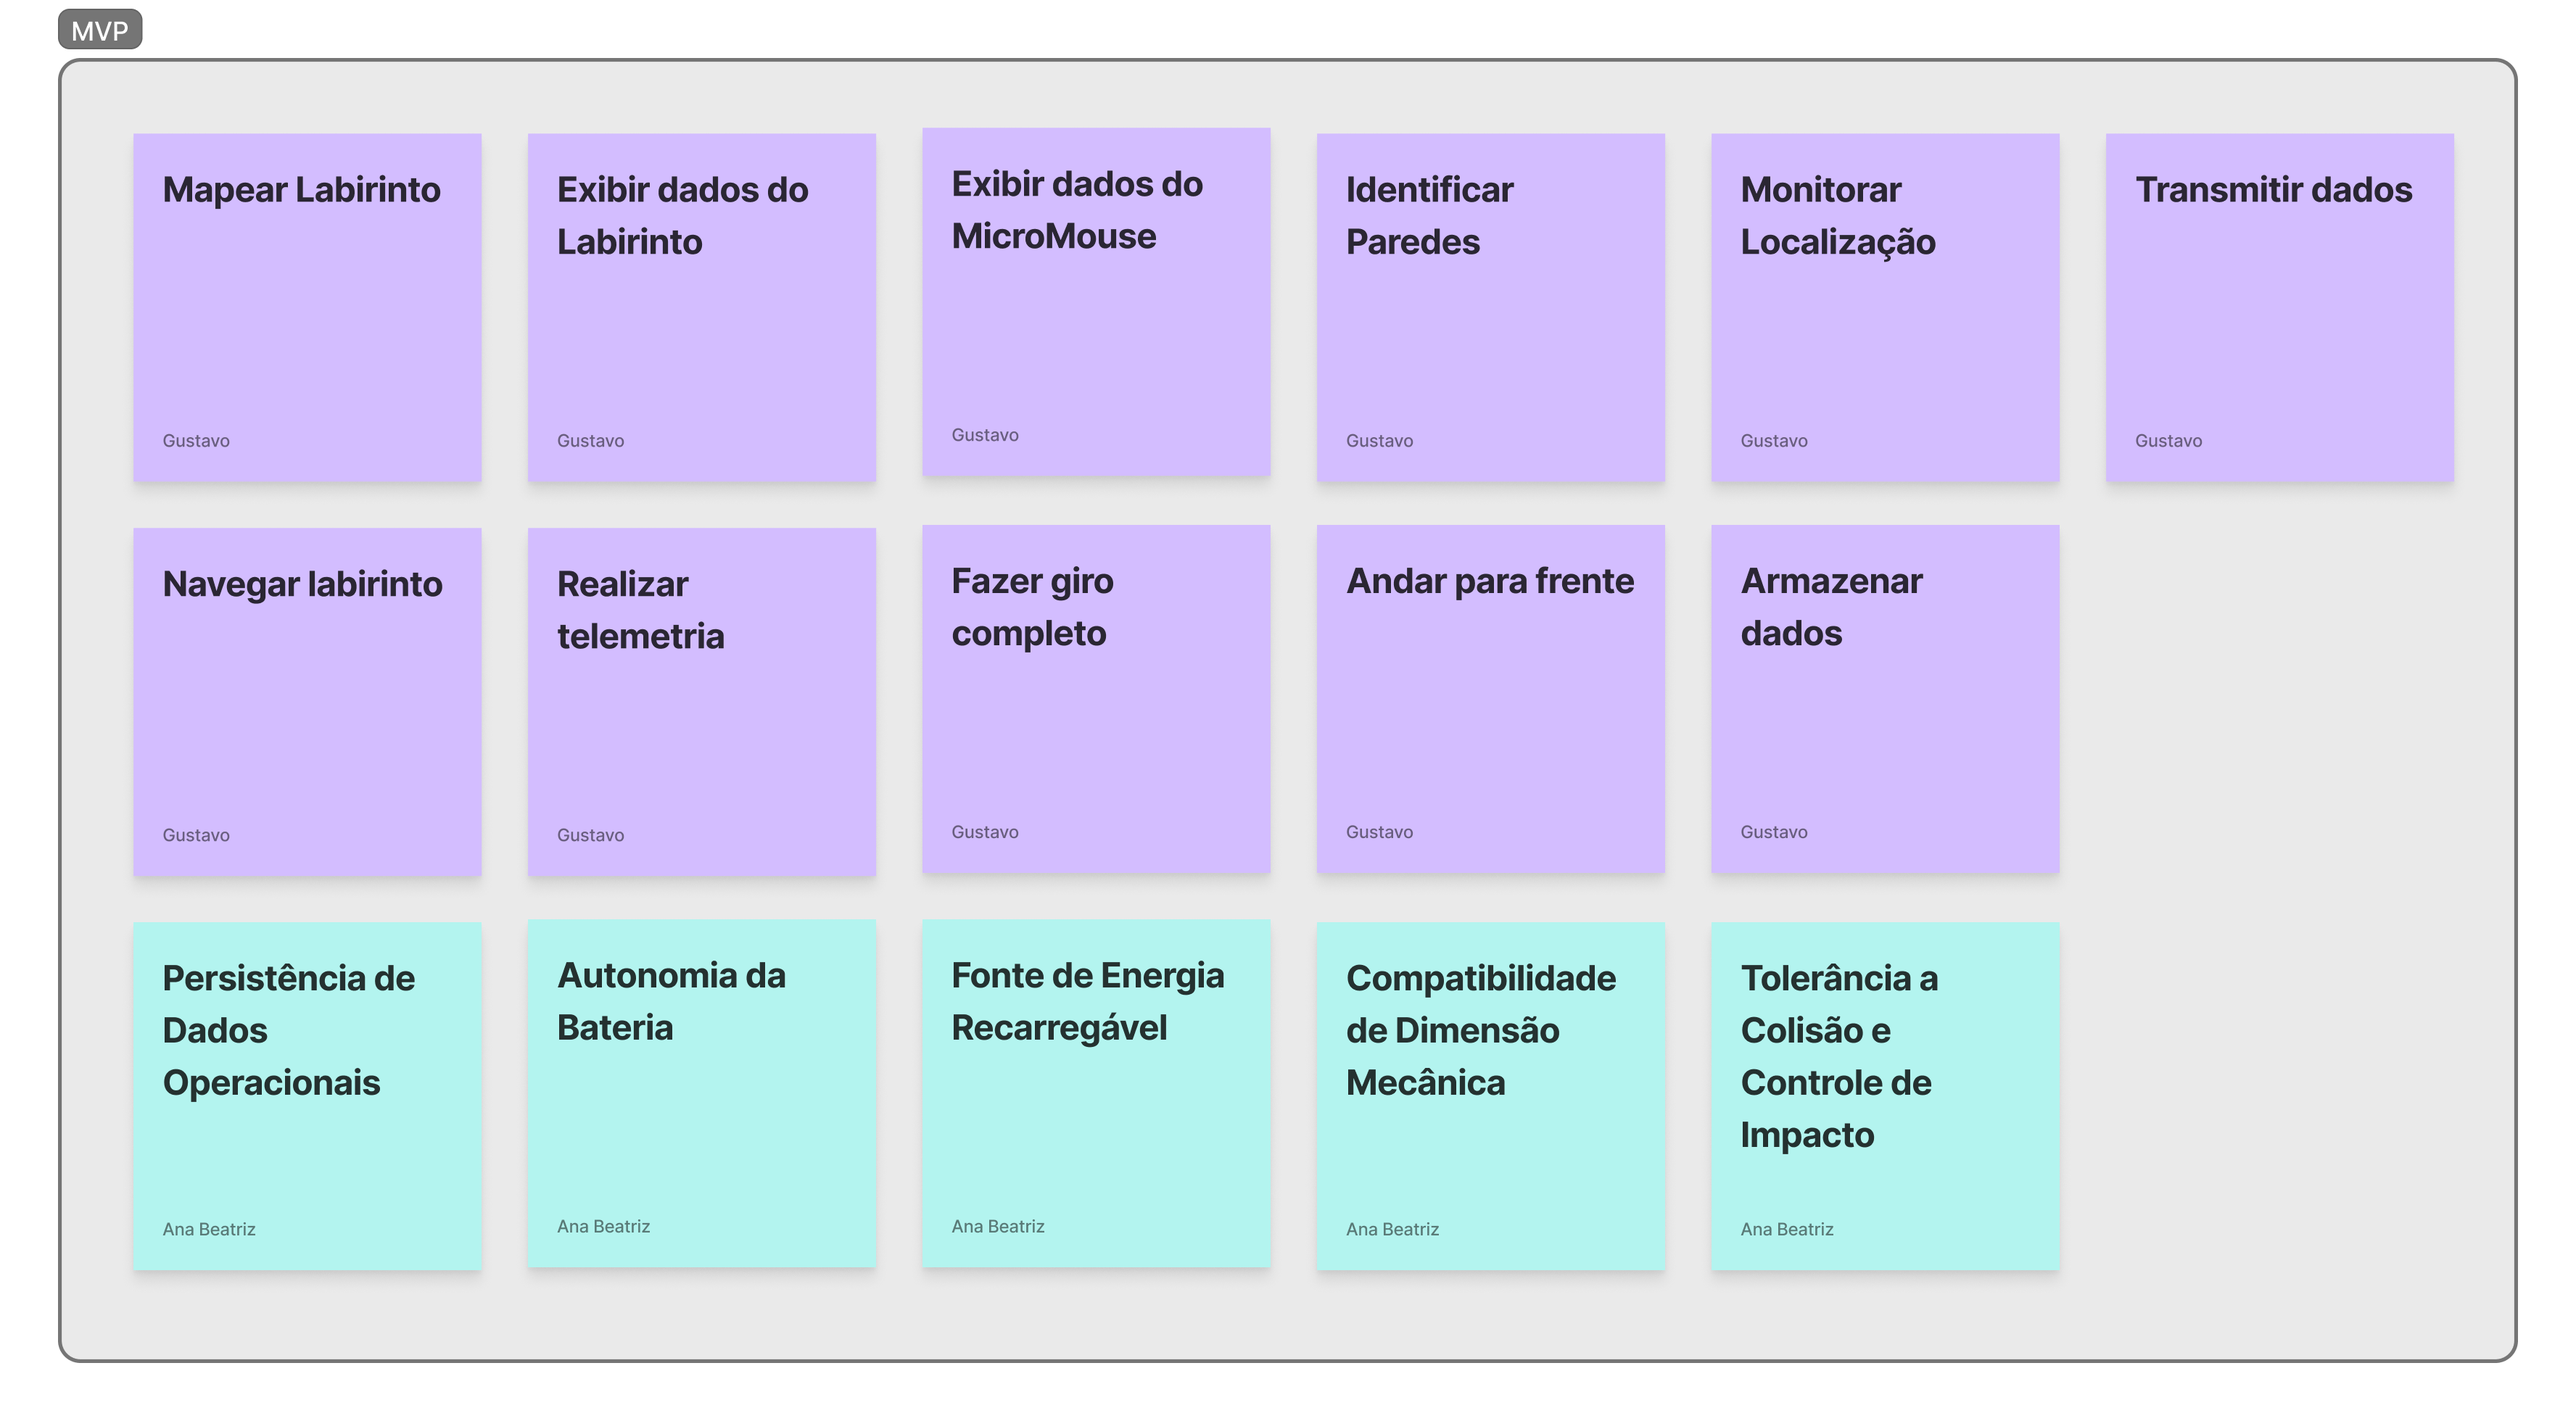
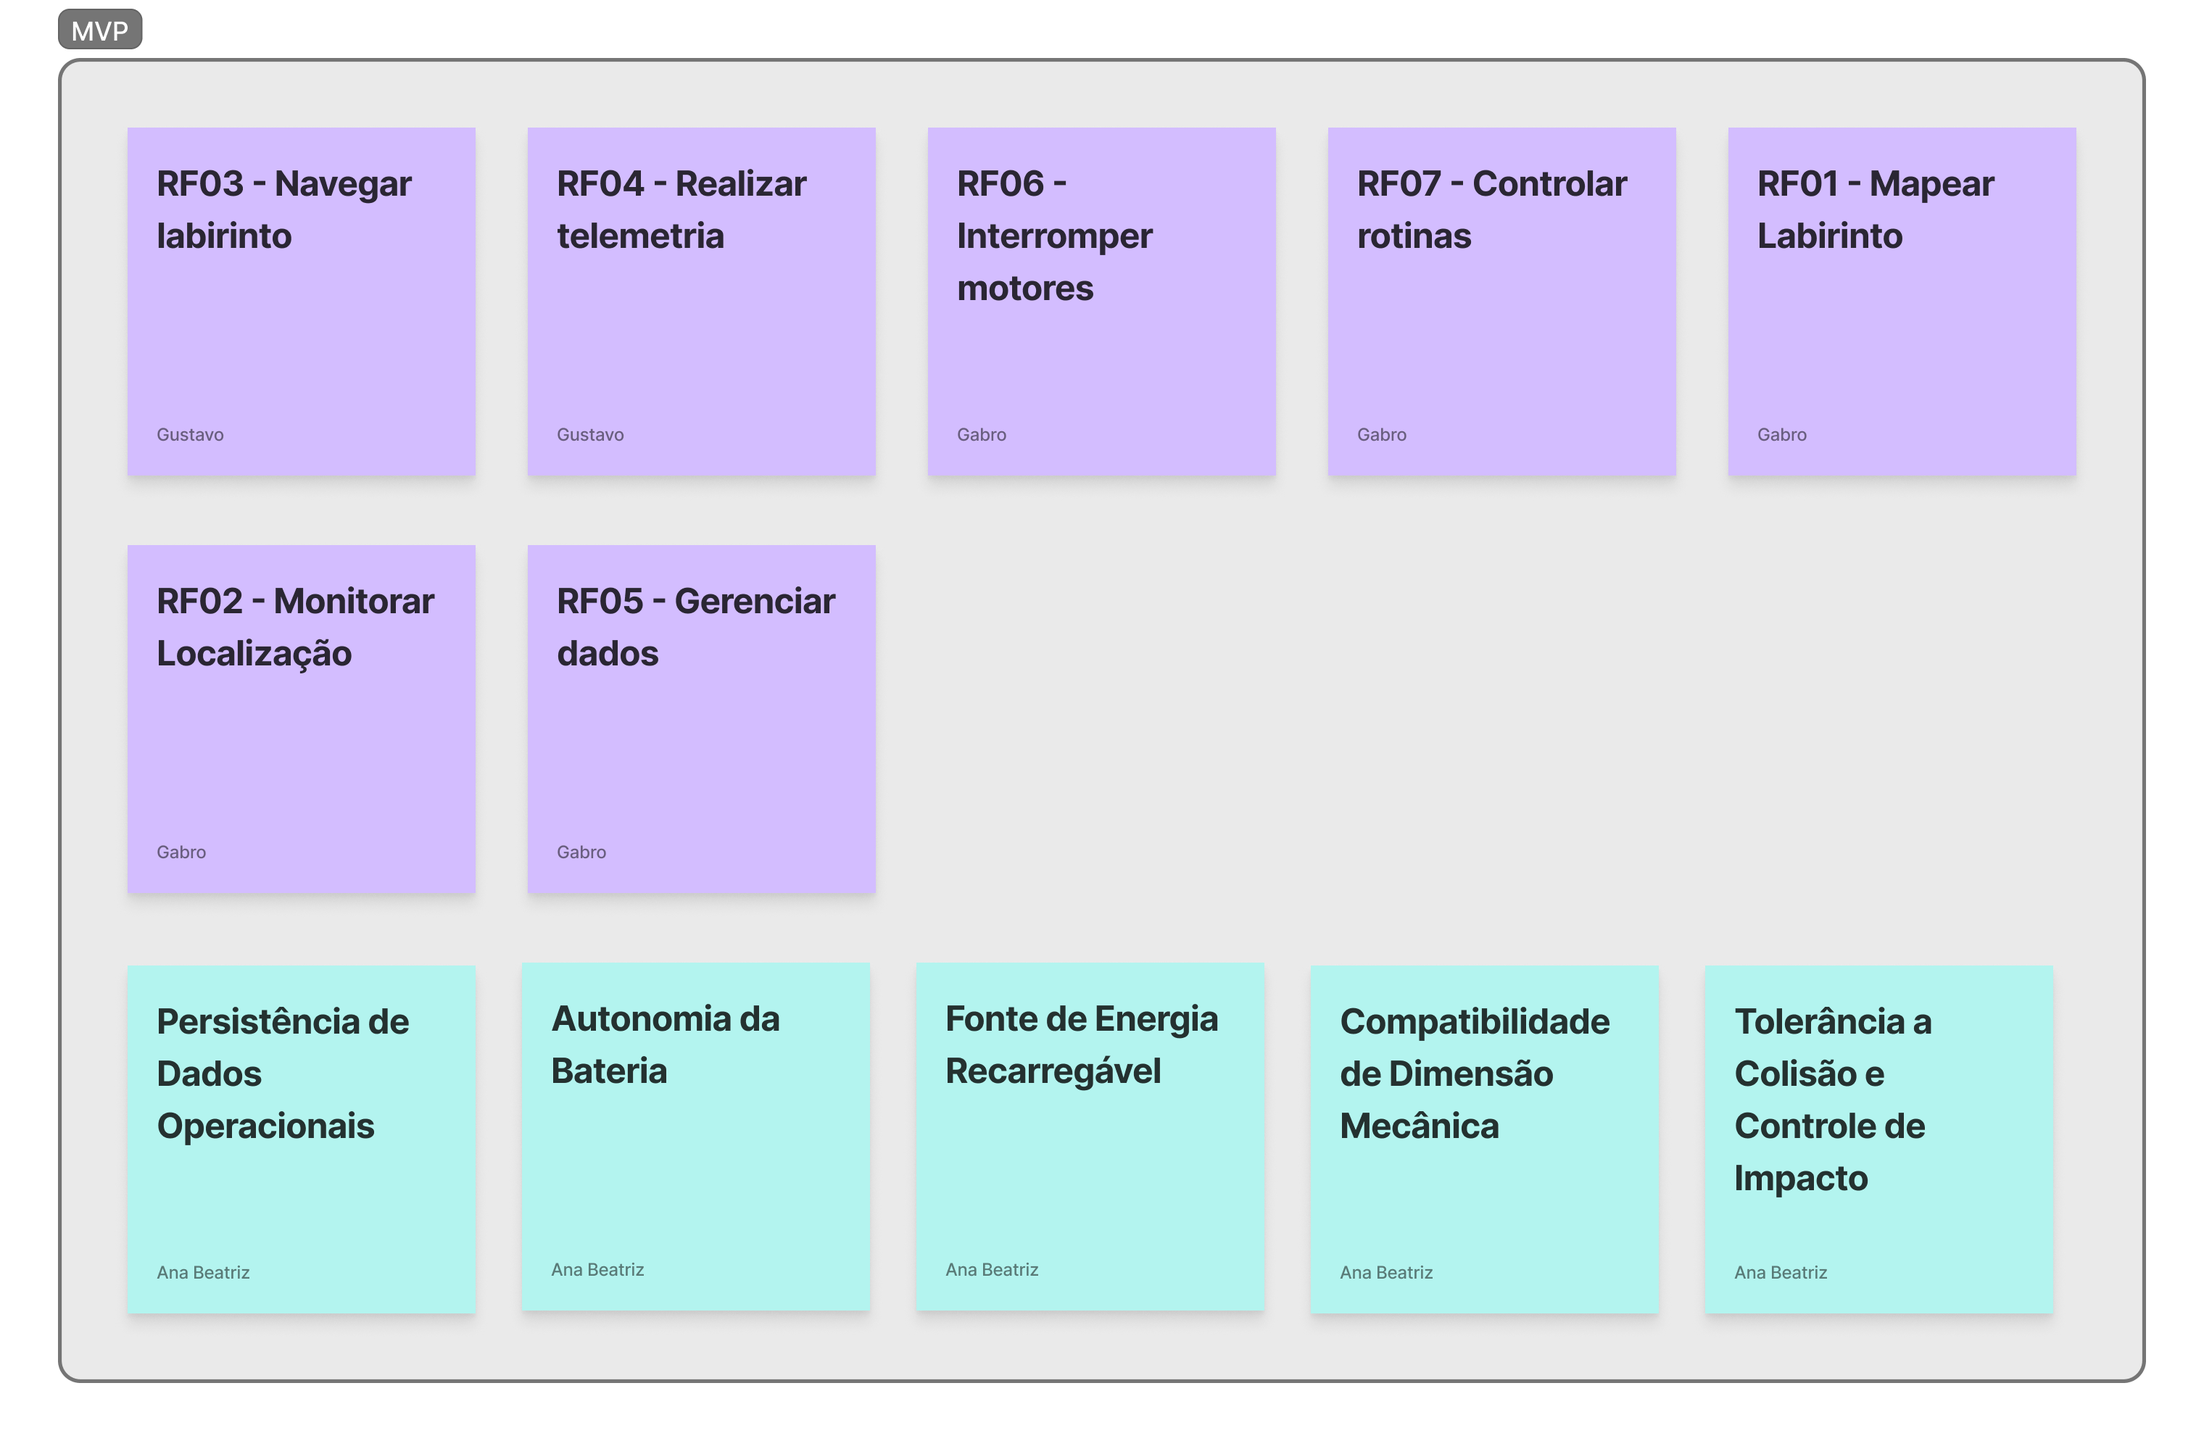
docs(Requisitos): atualização da matriz de rastreabilidade e MVP

diff --git a/docs/2 - Requisitos/MVP.md b/docs/2 - Requisitos/MVP.md
@@ -6,7 +6,7 @@ Este documento descreve a conceituação, os critérios de inclusão e o conjunt
 
 ## O que é o MVP?
 
-O **MVP** é a versão básica de um produto que reúne o conjunto fundamental de funcionalidades necessárias para validar sua proposta de valor principal. No contexto da engenharia e da robótica do **MicroMouse**, o MVP representa o protótipo funcional capaz de percorrer e resolver o labirinto de forma autônoma, garantindo a coleta de dados e operando sob as restrições essenciais de *hardware* e segurança.
+O **MVP** é a versão básica de um produto que reúne o conjunto fundamental de funcionalidades necessárias para validar sua proposta de valor principal. No contexto da engenharia e da robótica do **MicroMouse**, o MVP representa o protótipo funcional capaz de percorrer e resolver o labirinto de forma autônoma, garantindo a coleta de dados e operando sob as restrições essenciais de _hardware_ e segurança.
 
 O objetivo do MVP não é entregar a solução final com todas as otimizações possíveis, mas sim garantir uma base estável, testável e operacional para validações em cenários reais.
 
@@ -16,8 +16,8 @@ O objetivo do MVP não é entregar a solução final com todas as otimizações 
 
 A seleção dos requisitos integrantes do MVP baseou-se rigorosamente na metodologia de priorização **MoSCoW**:
 
-* **Critério de Entrada:** Apenas os requisitos categorizados como **Must Have** integram o escopo do MVP.
-* **Justificativa:** Os itens *Must Have* representam capacidades indispensáveis sem as quais a missão do robô torna-se inviável. Requisitos classificados como *Should Have*, *Could Have* ou *Won't Have* foram postergados para iterações posteriores.
+- **Critério de Entrada:** Apenas os requisitos categorizados como **Must Have** integram o escopo do MVP.
+- **Justificativa:** Os itens _Must Have_ representam capacidades indispensáveis sem as quais a missão do robô torna-se inviável. Requisitos classificados como _Should Have_, _Could Have_ ou _Won't Have_ foram postergados para iterações posteriores.
 
 ---
 
@@ -25,19 +25,15 @@ A seleção dos requisitos integrantes do MVP baseou-se rigorosamente na metodol
 
 A tabela a seguir apresenta os Requisitos Funcionais essenciais selecionados para o MVP. O ID de cada requisito fornece um link direto para o arquivo de origem.
 
-| **ID** | **Nome do Requisito** | **Descrição** |
-|:------:|------------------------|---------------|
-| [RF01](RF.md#rf-declarados) | Mapear Labirinto | Realizar o mapeamento contínuo da estrutura do labirinto à medida que o robô se desloca. |
-| [RF02](RF.md#rf-declarados) | Exibir dados do Labirinto | Apresentar em interface os dados estruturais e o mapa gerado do labirinto. |
-| [RF03](RF.md#rf-declarados) | Exibir dados do MicroMouse | Exibir em tempo real as informações de status, parâmetros e estado do robô MicroMouse. |
-| [RF04](RF.md#rf-declarados) | Identificar Paredes | Detectar a presença e a proximidade de paredes adjacentes ao robô. |
-| [RF05](RF.md#rf-declarados) | Monitorar Localização | Acompanhar e atualizar a posição exata do robô dentro da grade do labirinto. |
-| [RF06](RF.md#rf-declarados) | Transmitir dados | Enviar os dados coletados pelos sensores e sistema de bordo para a central de controle. |
-| [RF07](RF.md#rf-declarados) | Fazer giro completo | Executar a rotação controlada de retorno (giro completo/180°) no próprio eixo. |
-| [RF08](RF.md#rf-declarados) | Andar para frente | Executar o deslocamento linear para a frente ao longo das células do labirinto. |
-| [RF09](RF.md#rf-declarados) | Armazenar dados | Registrar e salvar localmente as informações operacionais coletadas durante a navegação. |
-| [RF10](RF.md#rf-declarados) | Navegar labirinto | Executar os algoritmos de busca e tomada de decisão para percorrer autonomamente o labirinto. |
-| [RF11](RF.md#rf-declarados) | Realizar telemetria | Coletar e transmitir métricas de operação do sistema para acompanhamento contínuo. |
+|           **ID**            | **Nome do Requisito** | **Descrição**                                                                                                      |
+| :-------------------------: | --------------------- | ------------------------------------------------------------------------------------------------------------------ |
+| [RF01](RF.md#rf-declarados) | Mapear Labirinto      | Realizar o mapeamento contínuo da estrutura do labirinto à medida que o robô se desloca.                           |
+| [RF02](RF.md#rf-declarados) | Monitorar Localização | Acompanhar e atualizar a posição exata do robô dentro da grade do labirinto.                                       |
+| [RF03](RF.md#rf-declarados) | Navegar labirinto     | Executar algoritmos de busca e tomada de decisão, e movimentação do robo para percorrer autonomamente o labirinto. |
+| [RF04](RF.md#rf-declarados) | Realizar telemetria   | Coletar e transmitir métricas de operação do sistema para acompanhamento contínuo.                                 |
+| [RF05](RF.md#rf-declarados) | Gerenciar dados       | Permitir a trasmissão, armazenamento e exibição dos dados/logs do MicroMouse e do Labirinto                        |
+| [RF06](RF.md#rf-declarados) | Interromper motores   | Cessar imediatamente a alimentação dos motores em caso de conclusão, parada ou falha.                              |
+| [RF07](RF.md#rf-declarados) | Controlar rotinas     | Permitir a inicialização/Desligamento da rotina de controle e calibração de sensores                               |
 
 ---
 
@@ -45,11 +41,11 @@ A tabela a seguir apresenta os Requisitos Funcionais essenciais selecionados par
 
 A tabela abaixo compõe as restrições técnicas, parâmetros elétricos e de desempenho que o MVP deve atender obrigatoriamente.
 
-| **ID** | **Nome do Requisito Não Funcional** | **Descrição** |
-|:------:|--------------------------------------|---------------|
-| [RNF01](RNF.md#rnf-declarados) | Persistência de Dados Operacionais | Armazenar os dados da execução de forma persistente para consultas posteriores. |
-| [RNF02](RNF.md#rnf-declarados) | Autonomia da Bateria | Garantir que a bateria tenha capacidade suficiente para realizar 3 trajetos ou 30 minutos de operação contínua. |
-| [RNF03](RNF.md#rnf-declarados) | Fonte de Energia Recarregável | Possuir bateria recarregável. |
-| [RNF04](RNF.md#rnf-declarados) | Compatibilidade de Dimensão Mecânica | Operar o robô em corredores formados por células de 18 cm². |
+|             **ID**             | **Nome do Requisito Não Funcional**     | **Descrição**                                                                                                                                                                                       |
+| :----------------------------: | --------------------------------------- | --------------------------------------------------------------------------------------------------------------------------------------------------------------------------------------------------- |
+| [RNF01](RNF.md#rnf-declarados) | Persistência de Dados Operacionais      | Armazenar os dados da execução de forma persistente para consultas posteriores.                                                                                                                     |
+| [RNF02](RNF.md#rnf-declarados) | Autonomia da Bateria                    | Garantir que a bateria tenha capacidade suficiente para realizar 3 trajetos ou 30 minutos de operação contínua.                                                                                     |
+| [RNF03](RNF.md#rnf-declarados) | Fonte de Energia Recarregável           | Possuir bateria recarregável.                                                                                                                                                                       |
+| [RNF04](RNF.md#rnf-declarados) | Compatibilidade de Dimensão Mecânica    | Operar o robô em corredores formados por células de 18 cm².                                                                                                                                         |
 | [RNF05](RNF.md#rnf-declarados) | Tolerância a Colisão e Controle Impacto | Garantir por meio do sistema de controle de motores que a velocidade e a frenagem impeçam o robô de colidir com as paredes com força suficiente para causar danos físicos à estrutura do labirinto. |
-| [RNF06](RNF.md#rnf-declarados) | Integridade Estrutural | Assegurar que o robô se mantenha intacto no final do trajeto. |
+| [RNF06](RNF.md#rnf-declarados) | Integridade Estrutural                  | Assegurar que o robô se mantenha intacto no final do trajeto.                                                                                                                                       |

diff --git a/docs/2 - Requisitos/Matriz de Rastreabilidade.md b/docs/2 - Requisitos/Matriz de Rastreabilidade.md
@@ -12,11 +12,11 @@ Aqui está a coleção de fotos detalhadas da matriz de rastreabilidade que fize
 
 ### Requisitos Funcionais
 
-![Requisitos Funcionais](../figs/Requisitos/Requisitos%20Funcionais.png)
+![Requisitos Funcionais](../figs/Requisitos/RFs.png)
 
 ### Requisitos Não Funcionais
 
-![Requisitos Funcionais](../figs/Requisitos/Requisito%20Não%20Funcional.png)
+![Requisitos Funcionais](../figs/Requisitos/RNFs.png)
 
 ### MoSCoW
 
@@ -24,19 +24,19 @@ Aqui está a coleção de fotos detalhadas da matriz de rastreabilidade que fize
 
 ### Must Have
 
-![Requisitos Funcionais](../figs/Requisitos/Must%20have.png)
+![Requisitos Funcionais](../figs/Requisitos/Must.png)
 
 ### Should Have
 
-![Requisitos Funcionais](../figs/Requisitos/Should%20Have.png)
+![Requisitos Funcionais](../figs/Requisitos/Should.png)
 
 ### Could Have
 
-![Requisitos Funcionais](../figs/Requisitos/Could%20Have.png)
+![Requisitos Funcionais](../figs/Requisitos/Could.png)
 
 ### Won’t have
 
-![Requisitos Funcionais](../figs/Requisitos/Wont%20have.png)
+![Requisitos Funcionais](../figs/Requisitos/Wont.png)
 
 ### MVP
 
